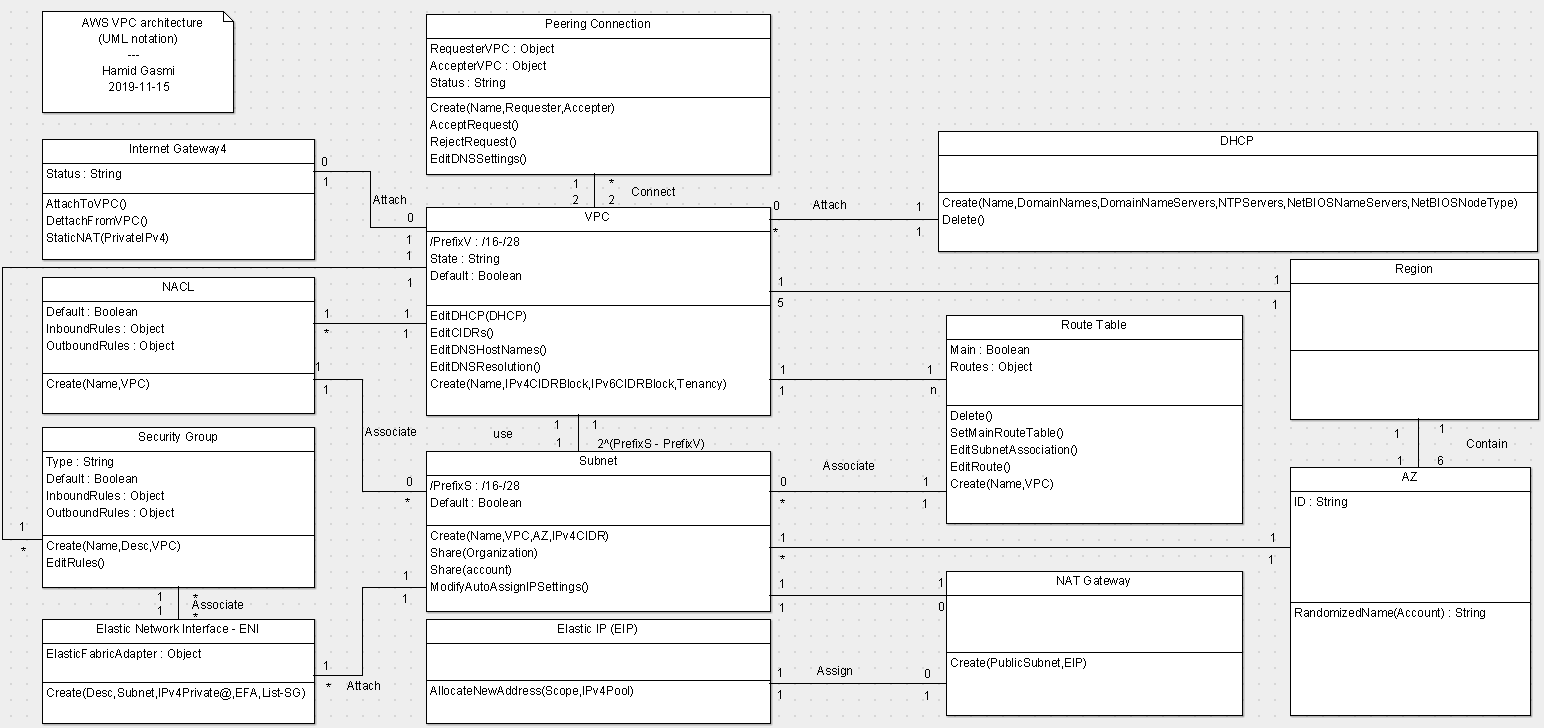
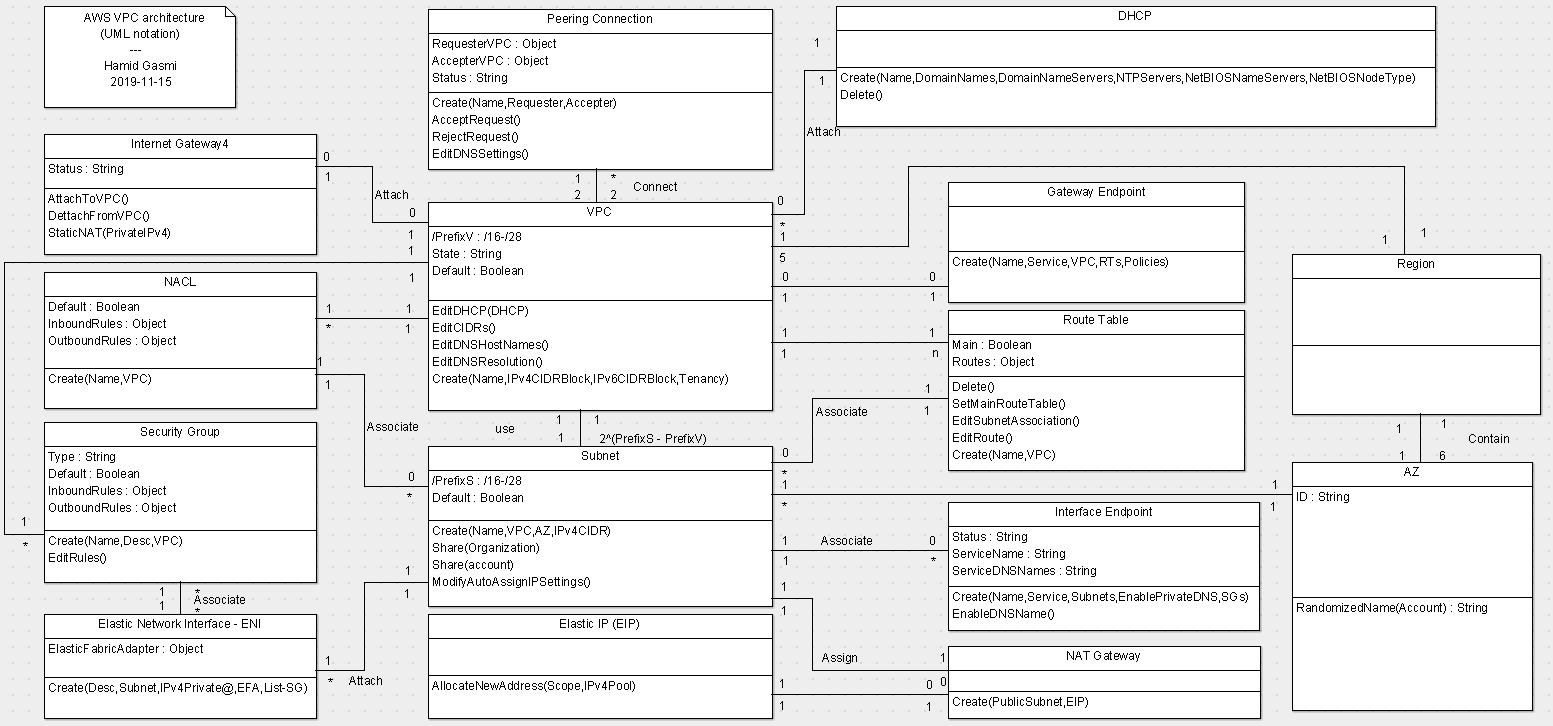
Updated Gateway endpoint description and architecture diagram

diff --git a/README.md b/README.md
@@ -445,8 +445,9 @@
 		- [ ] For HA, it should be associated with multiple AZs
 		- [ ] Its related traffic goes through SGs and NACLs
 		- [ ] It doesn't require a RT: it adds or replaces the DNS for the service
+		- [ ] It provides multiple DNS names: 1 per selected subnet + 1 general DNS name (not specific for an AZ)
 		- [ ] It replaces the default service public DNS when "Private DNS Names" feature is enabled
-		- [ ] [For more details about AWS Services endpoint] (https://docs.aws.amazon.com/general/latest/gr/rande.html)
+		- [ ] [For more details about AWS Services endpoint](https://docs.aws.amazon.com/general/latest/gr/rande.html)
 
 - Limits:
 	- Gateway endpoints are used via route
@@ -454,7 +455,7 @@
 	- An entire VPC is private without an Internet Gateway
 	- A specific private instance needs to access public services
 	- To access resources restricted to specific VPCs or endpoints (private S3 buckets)
-- [For more details about Interface endpoints] (https://docs.aws.amazon.com/vpc/latest/userguide/vpc-endpoints.html)
+- [For more details about Interface endpoints](https://docs.aws.amazon.com/vpc/latest/userguide/vpc-endpoints.html)
 
 </details>
 
